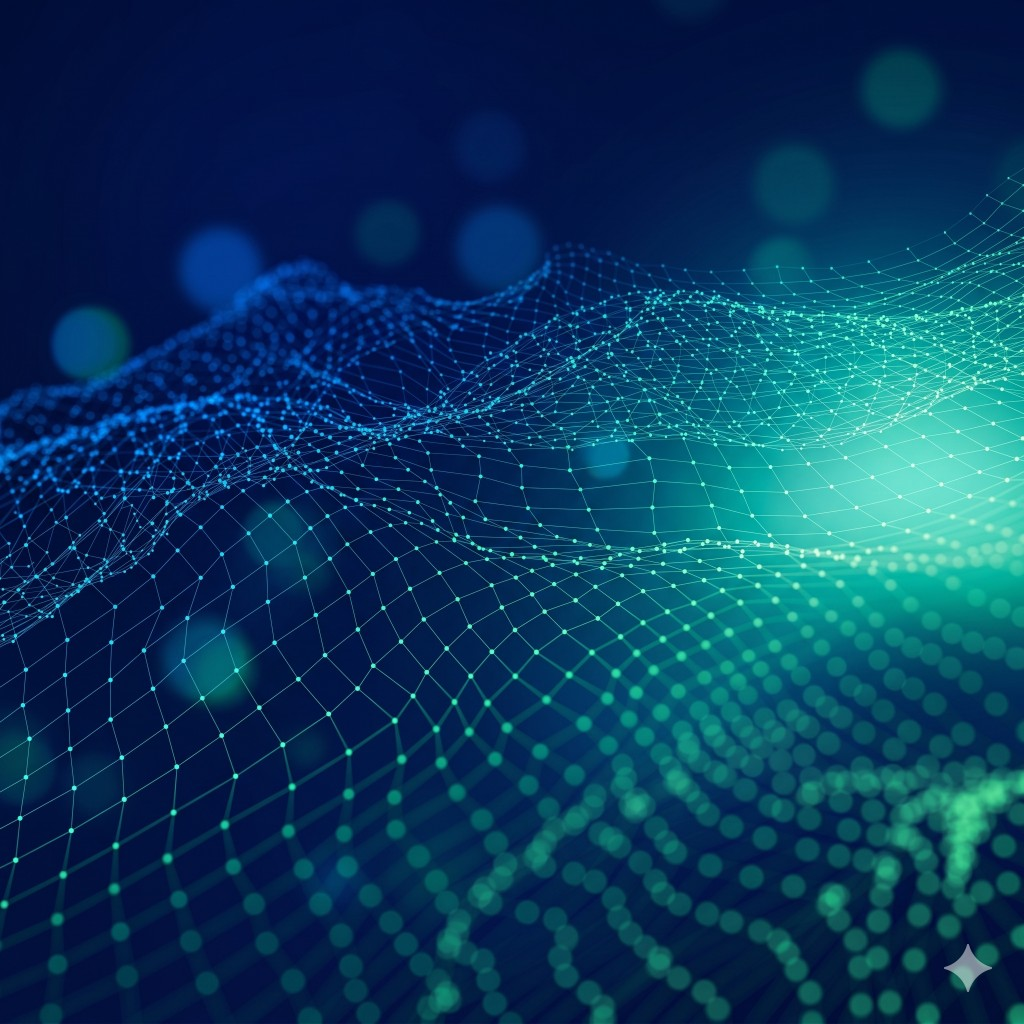
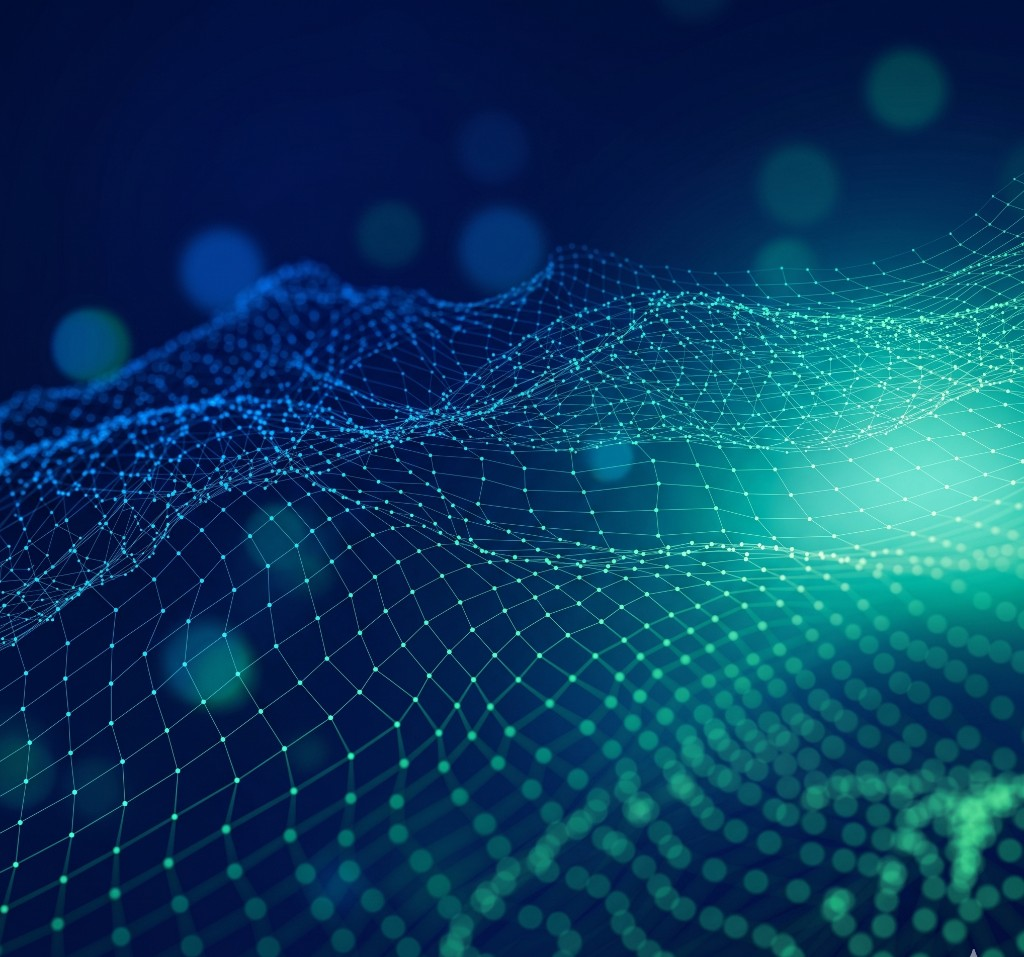
replace sitewide background with final image and preserve readability
Use the exact new image as the shared background across all pages and apply a global dark overlay so content remains readable throughout the application.

Made-with: Cursor

diff --git a/src/components/landing/HeroBackground.tsx b/src/components/landing/HeroBackground.tsx
@@ -4,11 +4,11 @@ export default function HeroBackground() {
   return (
     <div className="fixed inset-0 w-full h-full pointer-events-none" style={{ zIndex: 0 }} aria-hidden="true">
       <div
-        className="absolute inset-0 bg-cover bg-center opacity-45"
+        className="absolute inset-0 bg-cover bg-center opacity-28"
         style={{ backgroundImage: "url('/marketing-bg.jpg')" }}
       />
-      <div className="absolute inset-0 bg-[radial-gradient(120%_80%_at_50%_45%,rgba(7,43,71,0.26)_0%,rgba(2,6,23,0.90)_100%)]" />
-      <div className="absolute inset-0 bg-gradient-to-b from-[#020617]/28 via-[#05162a]/54 to-[#072847]/92" />
+      <div className="absolute inset-0 bg-[radial-gradient(120%_80%_at_50%_45%,rgba(7,43,71,0.18)_0%,rgba(2,6,23,0.88)_100%)]" />
+      <div className="absolute inset-0 bg-gradient-to-b from-[#020617]/22 via-[#05162a]/48 to-[#072847]/84" />
     </div>
   );
 }

diff --git a/src/app/globals.css b/src/app/globals.css
@@ -82,6 +82,13 @@ html {
 
 body {
   background-color: #020D1A;
+  background-image:
+    linear-gradient(180deg, rgba(2, 6, 23, 0.80) 0%, rgba(2, 6, 23, 0.88) 45%, rgba(2, 6, 23, 0.94) 100%),
+    url("/marketing-bg.jpg");
+  background-size: cover;
+  background-position: center;
+  background-repeat: no-repeat;
+  background-attachment: fixed;
   color: var(--foreground);
   scroll-behavior: smooth;
   @apply text-sm antialiased;
